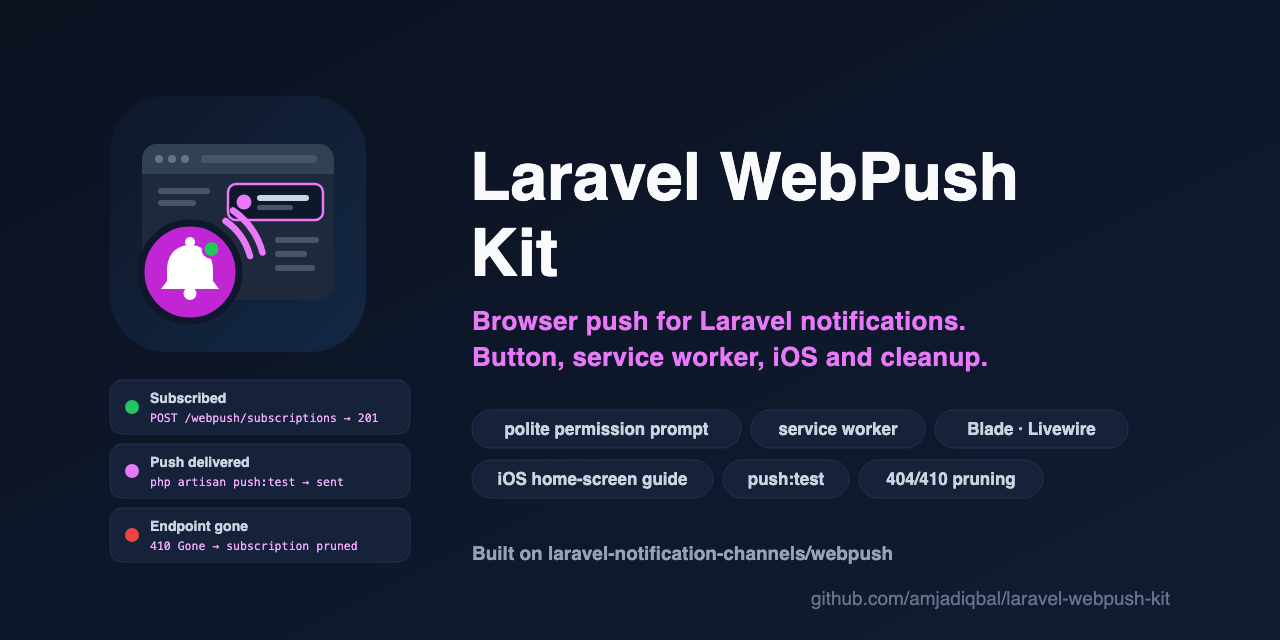
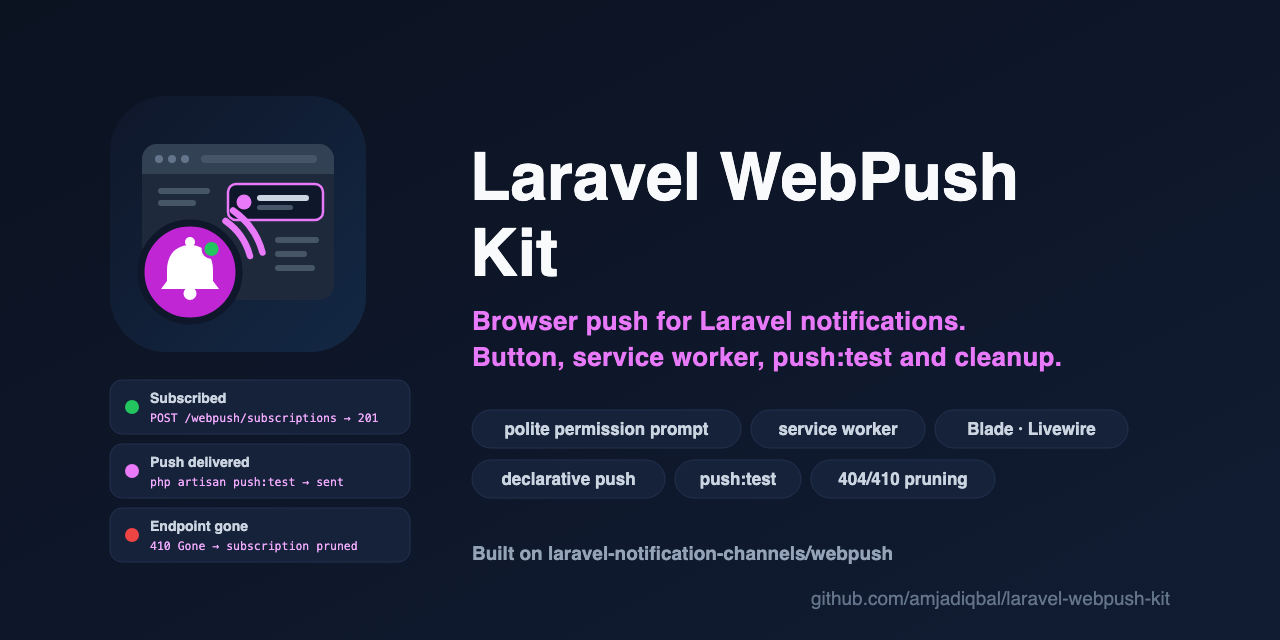
art: drop the iOS claims (iOS/Safari is untested); show push:test and declarative push instead

Changed region(s): [[0.375, 0.7188, 0.8125, 0.7812], [0.5938, 0.5312, 0.8438, 0.5938]]

diff --git a/art/.gen_art.py b/art/.gen_art.py
@@ -95,7 +95,7 @@ def banner(dark):
         icon_at(60, 75, 0.29297),
         f'  <text x="235" y="148" font-family="{SANS}" font-size="52" font-weight="700" fill="{t1}">Laravel WebPush Kit</text>',
         f'  <text x="238" y="188" font-family="{SANS}" font-size="21" font-weight="500" fill="{t2}" letter-spacing="0.3">The browser side of Laravel web push notifications</text>',
-        pills(238, 214, ['subscribe button', 'service worker', 'iOS home screen'], 15, 32, pf, ps, pt),
+        pills(238, 214, ['subscribe button', 'service worker', 'push:test'], 15, 32, pf, ps, pt),
         cards(890, 52, 280, pf, ps, pt, mono),
         f'  <text x="1170" y="275" text-anchor="end" font-family="{SANS}" font-size="15" fill="{foot}">amjadiqbal/laravel-webpush-kit</text>',
     ])
@@ -114,9 +114,9 @@ def social():
         f'  <text x="470" y="200" font-family="{SANS}" font-size="66" font-weight="700" fill="#F8FAFC">Laravel WebPush</text>',
         f'  <text x="470" y="276" font-family="{SANS}" font-size="66" font-weight="700" fill="#F8FAFC">Kit</text>',
         f'  <text x="472" y="330" font-family="{SANS}" font-size="26" font-weight="600" fill="{ACC}" letter-spacing="0.3">Browser push for Laravel notifications.</text>',
-        f'  <text x="472" y="366" font-family="{SANS}" font-size="26" font-weight="600" fill="{ACC}" letter-spacing="0.3">Button, service worker, iOS and cleanup.</text>',
+        f'  <text x="472" y="366" font-family="{SANS}" font-size="26" font-weight="600" fill="{ACC}" letter-spacing="0.3">Button, service worker, push:test and cleanup.</text>',
         pills(472, 410, ['polite permission prompt', 'service worker', 'Blade · Livewire'], 17, 38, '#16213A', '#24324F', '#CBD5E1'),
-        pills(472, 460, ['iOS home-screen guide', 'push:test', '404/410 pruning'], 17, 38, '#16213A', '#24324F', '#CBD5E1'),
+        pills(472, 460, ['declarative push', 'push:test', '404/410 pruning'], 17, 38, '#16213A', '#24324F', '#CBD5E1'),
         f'  <text x="472" y="560" font-family="{SANS}" font-size="19" font-weight="600" fill="#94A3B8">Built on laravel-notification-channels/webpush</text>',
         f'  <text x="1170" y="605" text-anchor="end" font-family="{SANS}" font-size="19" fill="#64748B">github.com/amjadiqbal/laravel-webpush-kit</text>',
     ])
